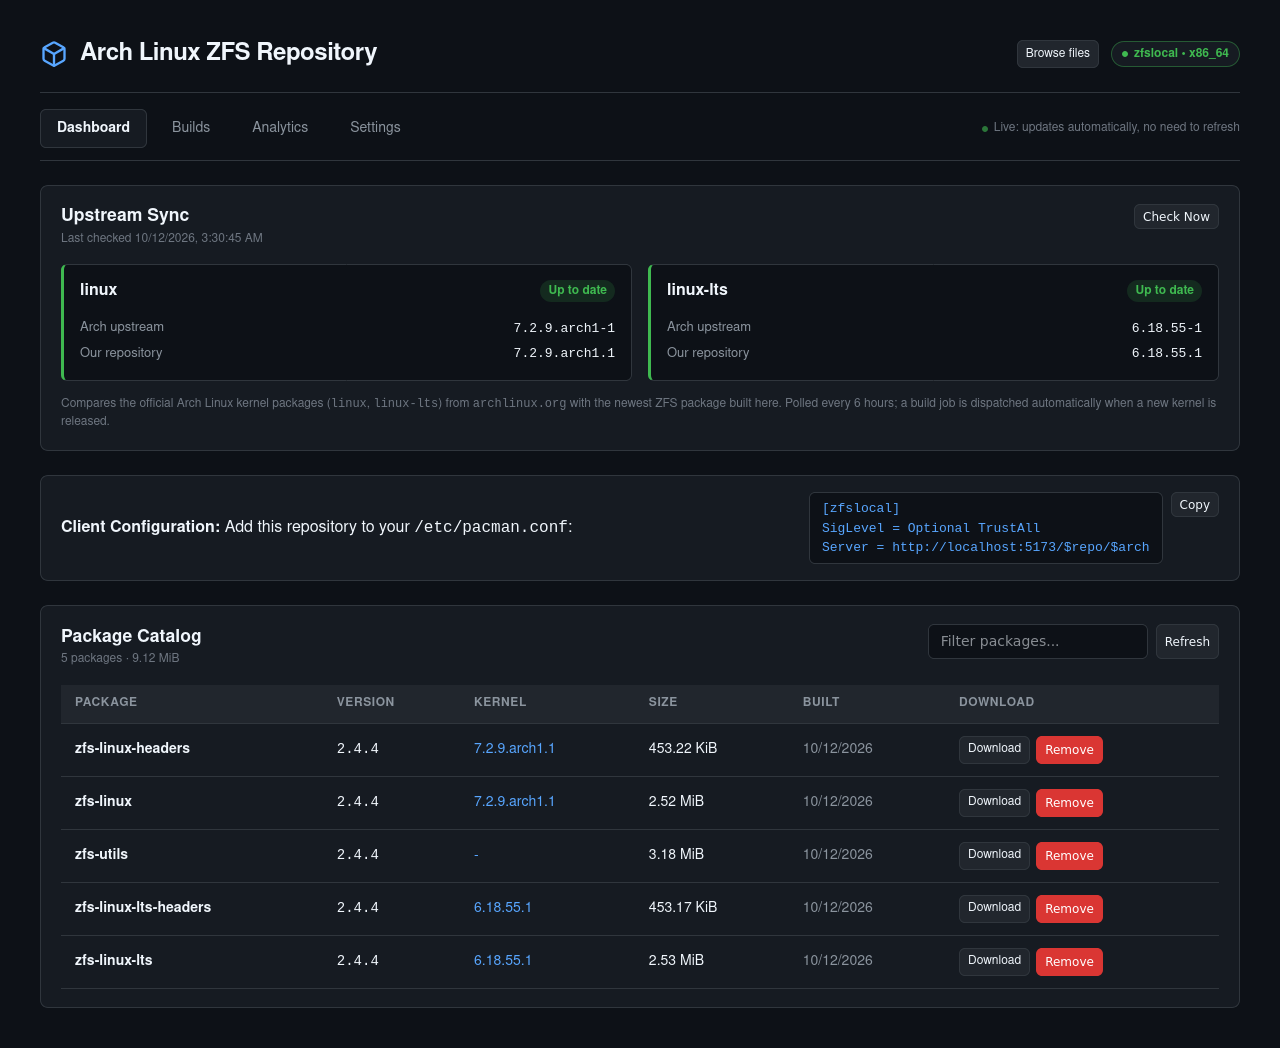
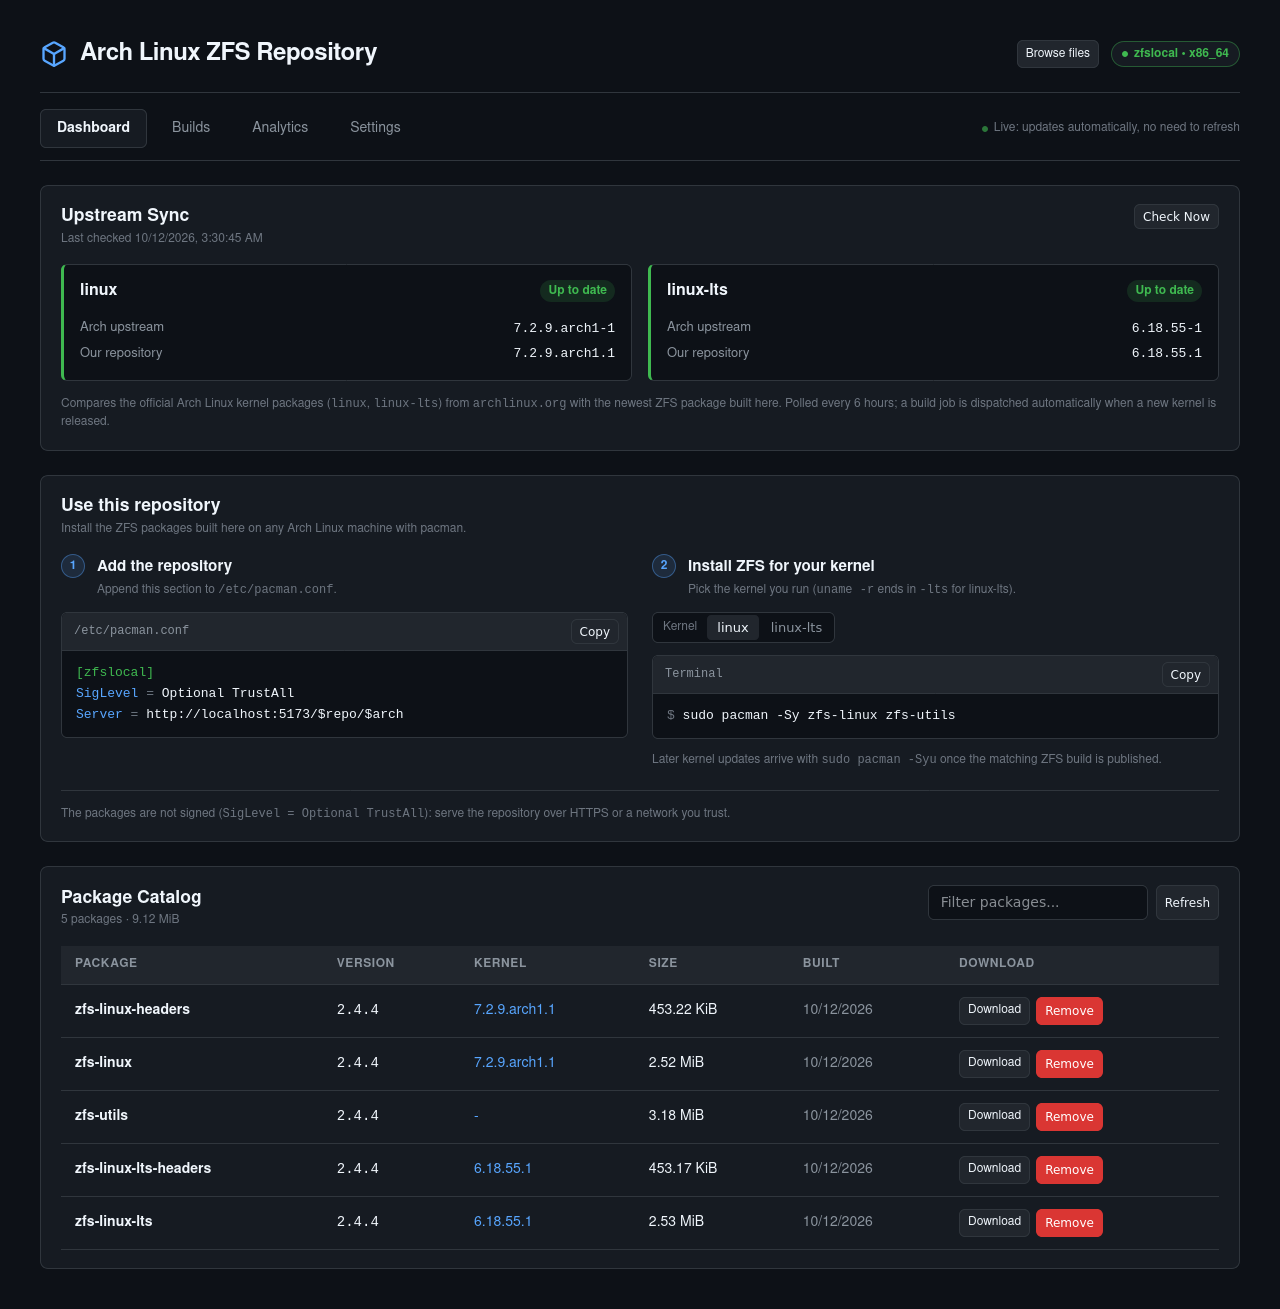
feat(ui): step-by-step client setup card on the dashboard
The client configuration box becomes a "Use this repository" card: the
pacman.conf section in a highlighted code block, an install command for the
chosen kernel, both with a copy button, and a note that the packages are not
signed. The code block is a reusable ui component.

diff --git a/web/src/components/dashboard/ClientConfigBox.vue b/web/src/components/dashboard/ClientConfigBox.vue
@@ -1,50 +1,110 @@
 <script setup lang="ts">
-import { computed } from 'vue'
+import { computed, ref } from 'vue'
 import { useSettings } from '../../composables/useSettings'
-import { pacmanSnippet } from '../../utils/pacman'
-import CopyButton from '../ui/CopyButton.vue'
+import { KNOWN_VARIANTS, variantLabel } from '../../utils/jobs'
+import { installCommand, pacmanSnippet } from '../../utils/pacman'
+import AppCard from '../ui/AppCard.vue'
+import CodeBlock from '../ui/CodeBlock.vue'
+import SegmentedControl from '../ui/SegmentedControl.vue'
 
 const { settings } = useSettings()
 const snippet = computed(() => pacmanSnippet(settings.value?.repoName, window.location.origin))
+
+const variant = ref('')
+const variants = KNOWN_VARIANTS.map((v) => ({ value: v, label: variantLabel(v) }))
 </script>
 
 <template>
-  <div class="box">
-    <div><strong>Client Configuration:</strong> Add this repository to your <code>/etc/pacman.conf</code>:</div>
-    <div class="snippet-row">
-      <pre class="snippet">{{ snippet }}</pre>
-      <CopyButton :text="snippet" />
-    </div>
-  </div>
+  <AppCard title="Use this repository">
+    <template #subtitle>Install the ZFS packages built here on any Arch Linux machine with pacman.</template>
+    <ol class="steps">
+      <li class="step">
+        <div class="step-head">
+          <span class="num">1</span>
+          <div>
+            <h3>Add the repository</h3>
+            <p class="muted small">Append this section to <code>/etc/pacman.conf</code>.</p>
+          </div>
+        </div>
+        <CodeBlock :text="snippet" lang="ini" caption="/etc/pacman.conf" />
+      </li>
+      <li class="step">
+        <div class="step-head">
+          <span class="num">2</span>
+          <div>
+            <h3>Install ZFS for your kernel</h3>
+            <p class="muted small">Pick the kernel you run (<code>uname -r</code> ends in <code>-lts</code> for linux-lts).</p>
+          </div>
+        </div>
+        <SegmentedControl v-model="variant" :options="variants" label="Kernel" />
+        <CodeBlock :text="installCommand(variant)" lang="shell" caption="Terminal" />
+        <p class="muted small">
+          Later kernel updates arrive with <code>sudo pacman -Syu</code> once the matching ZFS build is published.
+        </p>
+      </li>
+    </ol>
+    <p class="note small">
+      The packages are not signed (<code>SigLevel = Optional TrustAll</code>): serve the repository over HTTPS or a network you
+      trust.
+    </p>
+  </AppCard>
 </template>
 
 <style scoped>
-.box {
-  display: flex;
-  justify-content: space-between;
-  align-items: center;
-  gap: 16px;
-  background: var(--bg-secondary);
-  border: 1px solid var(--border-color);
-  border-radius: 8px;
-  padding: 16px 20px;
+.steps {
+  display: grid;
+  grid-template-columns: repeat(auto-fit, minmax(340px, 1fr));
+  gap: 24px;
+  margin: 0;
+  padding: 0;
+  list-style: none;
 }
 
-.snippet-row {
+.step {
   display: flex;
-  gap: 8px;
+  flex-direction: column;
+  align-items: flex-start;
+  gap: 12px;
+  min-width: 0;
+}
+
+.step > :deep(.code-block) {
+  align-self: stretch;
+}
+
+.step-head {
+  display: flex;
+  gap: 12px;
   align-items: flex-start;
 }
 
-.snippet {
-  margin: 0;
-  padding: 6px 12px;
-  font-family: var(--font-mono);
-  font-size: 0.8125rem;
-  line-height: 1.5;
+.num {
+  flex: none;
+  display: grid;
+  place-items: center;
+  width: 24px;
+  height: 24px;
+  border-radius: 50%;
+  background: rgba(88, 166, 255, 0.12);
+  border: 1px solid rgba(88, 166, 255, 0.4);
   color: var(--accent-blue);
-  background: var(--bg-primary);
-  border: 1px solid var(--border-color);
-  border-radius: 6px;
+  font-size: 0.75rem;
+  font-weight: 600;
+}
+
+h3 {
+  margin: 2px 0 2px;
+  font-size: 0.95rem;
+}
+
+p {
+  margin: 0;
+}
+
+.note {
+  margin-top: 20px;
+  padding-top: 14px;
+  border-top: 1px solid var(--border-color);
+  color: var(--text-muted);
 }
 </style>

diff --git a/web/src/components/ui/CodeBlock.vue b/web/src/components/ui/CodeBlock.vue
@@ -1,0 +1,78 @@
+<script setup lang="ts">
+import { computed } from 'vue'
+import { iniTokens } from '../../utils/pacman'
+import CopyButton from './CopyButton.vue'
+
+const props = defineProps<{
+  text: string
+  /** "ini" highlights sections, keys and values; "shell" prefixes each line with an unselectable prompt. */
+  lang?: 'ini' | 'shell'
+  /** Shown in the header bar, e.g. the file the snippet belongs in. */
+  caption?: string
+}>()
+
+const lines = computed(() => props.text.split('\n'))
+</script>
+
+<template>
+  <div class="code-block">
+    <div class="bar">
+      <span class="caption">{{ caption }}</span>
+      <CopyButton :text="text" />
+    </div>
+    <pre><code><template v-for="(line, i) in lines" :key="i"><span v-if="lang === 'shell'" class="prompt" aria-hidden="true">$ </span><template v-if="lang === 'ini'"><span v-for="(t, j) in iniTokens(line)" :key="j" :class="t.kind">{{ t.text }}</span></template><template v-else>{{ line }}</template>{{ i < lines.length - 1 ? '\n' : '' }}</template></code></pre>
+  </div>
+</template>
+
+<style scoped>
+.code-block {
+  background: var(--bg-primary);
+  border: 1px solid var(--border-color);
+  border-radius: 6px;
+  overflow: hidden;
+}
+
+.bar {
+  display: flex;
+  justify-content: space-between;
+  align-items: center;
+  gap: 8px;
+  padding: 6px 8px 6px 12px;
+  background: var(--bg-tertiary);
+  border-bottom: 1px solid var(--border-color);
+}
+
+.caption {
+  font-family: var(--font-mono);
+  font-size: 0.75rem;
+  color: var(--text-secondary);
+}
+
+pre {
+  margin: 0;
+  padding: 12px 14px;
+  overflow-x: auto;
+  font-family: var(--font-mono);
+  font-size: 0.8125rem;
+  line-height: 1.6;
+  color: var(--text-primary);
+}
+
+.prompt,
+.punct,
+.comment {
+  color: var(--text-muted);
+}
+
+.prompt {
+  user-select: none;
+}
+
+.section {
+  color: var(--status-success);
+}
+
+.key {
+  color: var(--accent-blue);
+}
+</style>

diff --git a/web/src/utils/pacman.test.ts b/web/src/utils/pacman.test.ts
@@ -1,9 +1,25 @@
 import { expect, it } from 'vitest'
-import { pacmanSnippet } from './pacman'
+import { iniTokens, installCommand, pacmanSnippet } from './pacman'
 
 it('renders a multi-line pacman.conf section', () => {
   expect(pacmanSnippet('myrepo', 'http://host')).toBe(
     '[myrepo]\nSigLevel = Optional TrustAll\nServer = http://host/$repo/$arch',
   )
   expect(pacmanSnippet(undefined, 'http://host')).toContain('[zfslocal]')
+})
+
+it('installs the ZFS module matching the kernel variant', () => {
+  expect(installCommand('')).toBe('sudo pacman -Sy zfs-linux zfs-utils')
+  expect(installCommand('lts')).toBe('sudo pacman -Sy zfs-linux-lts zfs-utils')
+})
+
+it('tokenizes pacman.conf lines', () => {
+  expect(iniTokens('[zfslocal]')).toEqual([{ text: '[zfslocal]', kind: 'section' }])
+  expect(iniTokens('Server = http://host/$repo/$arch')).toEqual([
+    { text: 'Server', kind: 'key' },
+    { text: ' = ', kind: 'punct' },
+    { text: 'http://host/$repo/$arch', kind: 'value' },
+  ])
+  expect(iniTokens('# a comment = not a key')).toEqual([{ text: '# a comment = not a key', kind: 'comment' }])
+  expect(iniTokens('')).toEqual([{ text: '', kind: 'plain' }])
 })

diff --git a/web/src/utils/pacman.ts b/web/src/utils/pacman.ts
@@ -1,3 +1,26 @@
+import { variantLabel } from './jobs'
+
 export function pacmanSnippet(repoName: string | undefined, origin: string): string {
   return `[${repoName || 'zfslocal'}]\nSigLevel = Optional TrustAll\nServer = ${origin}/$repo/$arch`
+}
+
+/** The pacman command installing ZFS for a kernel variant ("" is the standard kernel). */
+export const installCommand = (variant: string) => `sudo pacman -Sy zfs-${variantLabel(variant)} zfs-utils`
+
+export interface IniToken {
+  text: string
+  kind: 'section' | 'key' | 'punct' | 'value' | 'comment' | 'plain'
+}
+
+/** Splits one line of an INI file such as pacman.conf into tokens for syntax highlighting. */
+export function iniTokens(line: string): IniToken[] {
+  if (/^\s*#/.test(line)) return [{ text: line, kind: 'comment' }]
+  if (/^\s*\[.*\]\s*$/.test(line)) return [{ text: line, kind: 'section' }]
+  const m = /^(\s*[^=]*?)(\s*=\s*)(.*)$/.exec(line)
+  if (!m) return [{ text: line, kind: 'plain' }]
+  return [
+    { text: m[1], kind: 'key' },
+    { text: m[2], kind: 'punct' },
+    { text: m[3], kind: 'value' },
+  ]
 }
